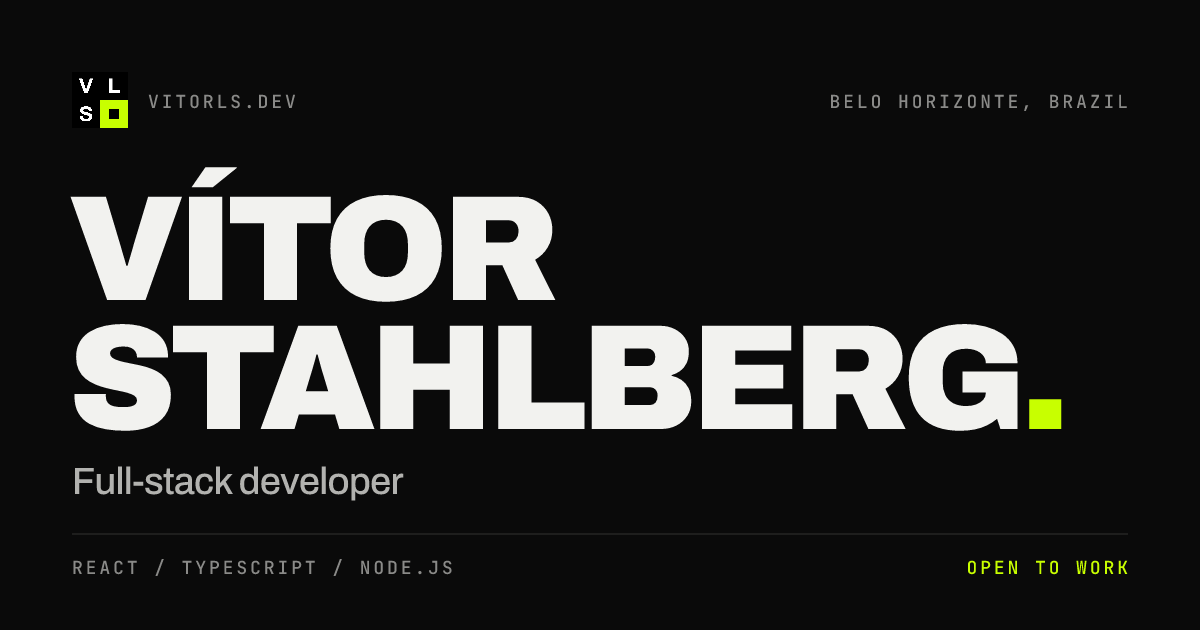
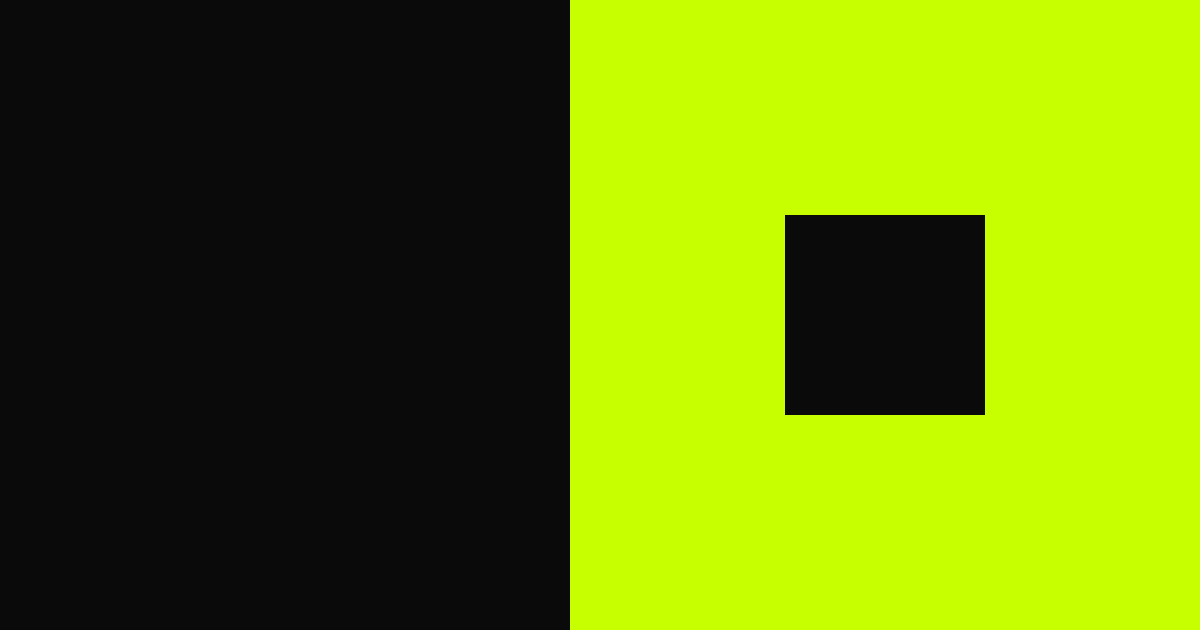
fix gyro

diff --git a/src/tilt.ts b/src/tilt.ts
@@ -1,16 +1,26 @@
 // The phone's own tilt, shared by every model the way the cursor is on desktop
-// (see RowObject). Nothing here touches three.js, so the permission prompt in
-// the hero can reach it without pulling in the 3D chunk.
+// (see RowObject). Nothing here touches three.js, so the button in the work
+// header can reach it without pulling in the 3D chunk.
 
 type Source = typeof DeviceOrientationEvent & {
-  /** iOS 13+ only, and only callable from a tap. */
-  requestPermission?: () => Promise<"granted" | "denied">;
+  /** Safari gates the sensor behind a tap; some others expose this too. */
+  requestPermission?: () => Promise<string>;
 };
 
 const source = window.DeviceOrientationEvent as Source | undefined;
 
 /** How far the models turn, as -1..1 on each axis. Stays 0 until the phone moves. */
 export const tilt = { x: 0, y: 0, live: false };
+
+/** What the sensor is doing, for the ?tilt-debug readout. */
+export const report = {
+  permission: "not asked",
+  orientation: 0,
+  absolute: 0,
+  motion: 0,
+  beta: 0,
+  gamma: 0,
+};
 
 // Degrees of tilt that reach the full turn.
 const RANGE = 30;
@@ -19,15 +29,17 @@ const RANGE = 30;
 // the reader is already holding it rather than snapping to some absolute pose.
 let base: { beta: number; gamma: number } | null = null;
 let listening = false;
+// Orientation is the better signal; gravity is only read until one arrives.
+let oriented = false;
 
 const clamp = (n: number) => Math.max(-1, Math.min(1, n));
 // beta wraps at ±180, where a large step is really a small move the other way.
 const wrap = (d: number) => (d > 180 ? d - 360 : d < -180 ? d + 360 : d);
 
-function read(event: DeviceOrientationEvent) {
-  const { beta, gamma } = event;
-  if (beta === null || gamma === null) return;
+function apply(beta: number, gamma: number) {
   if (!base) base = { beta, gamma };
+  report.beta = beta;
+  report.gamma = gamma;
 
   const pitch = wrap(beta - base.beta);
   const roll = wrap(gamma - base.gamma);
@@ -41,28 +53,60 @@ function read(event: DeviceOrientationEvent) {
   tilt.live = true;
 }
 
+function readOrientation(event: DeviceOrientationEvent) {
+  if (event.type === "deviceorientation") report.orientation++;
+  else report.absolute++;
+  const { beta, gamma } = event;
+  if (beta === null || gamma === null) return;
+  oriented = true;
+  apply(beta, gamma);
+}
+
+// For phones that report no orientation at all: gravity alone gives both angles
+// we use, and every accelerometer reports it.
+function readGravity(event: DeviceMotionEvent) {
+  report.motion++;
+  if (oriented) return;
+  const g = event.accelerationIncludingGravity;
+  if (!g || g.x === null || g.y === null || g.z === null) return;
+  // Gravity in the phone's own frame is world-up: its angles are beta and gamma.
+  const degrees = 180 / Math.PI;
+  apply(Math.atan2(g.y, g.z) * degrees, Math.atan2(-g.x, g.z) * degrees);
+}
+
 // Turning the phone moves beta and gamma bodily; the old rest angle is meaningless.
 const recalibrate = () => {
   base = null;
 };
 
+function attach() {
+  window.addEventListener("deviceorientation", readOrientation);
+  window.addEventListener("deviceorientationabsolute", readOrientation);
+  window.addEventListener("devicemotion", readGravity);
+  screen.orientation?.addEventListener("change", recalibrate);
+}
+
 /** True where the sensor is gated behind a prompt, so it needs a tap to ask. */
 export const tiltNeedsPermission = () =>
   typeof source?.requestPermission === "function";
 
-/** Starts tracking, asking first only where the platform requires it. */
+/**
+ * Starts tracking. The listeners go on first and stay on: they cost nothing
+ * while the sensor is quiet, so a browser that answers the permission call
+ * oddly — or not at all — still gets through once it decides to report.
+ */
 export async function startTilt() {
-  if (!source || listening) return false;
-  if (source.requestPermission) {
-    try {
-      if ((await source.requestPermission()) !== "granted") return false;
-    } catch {
-      // Not a tap, or the prompt was dismissed. Either way, no sensor.
-      return false;
-    }
-  }
+  if (listening) return;
   listening = true;
-  window.addEventListener("deviceorientation", read);
-  screen.orientation?.addEventListener("change", recalibrate);
-  return true;
+  attach();
+  if (!source?.requestPermission) return;
+  try {
+    // Fired without awaiting anything first, so it still counts as being
+    // inside the tap that asked for it.
+    report.permission = await source.requestPermission();
+  } catch (error) {
+    report.permission = `failed: ${error}`;
+  }
+  // Safari only starts delivering after the grant; re-adding is a no-op.
+  attach();
 }

diff --git a/src/components/TiltDebug.tsx b/src/components/TiltDebug.tsx
@@ -1,0 +1,38 @@
+import { useEffect, useState } from "react";
+import { report, tilt, tiltNeedsPermission } from "../tilt";
+
+// Temporary: add ?tilt-debug to the URL to see what the phone's sensors report.
+// Delete this file and its two lines in Work.tsx once the tilt is settled.
+export function TiltDebug() {
+  const [, render] = useState(0);
+
+  useEffect(() => {
+    const timer = setInterval(() => render((n) => n + 1), 250);
+    return () => clearInterval(timer);
+  }, []);
+
+  const round = (n: number) => n.toFixed(2);
+
+  return (
+    <pre
+      style={{
+        position: "fixed",
+        left: 8,
+        bottom: 8,
+        zIndex: 50,
+        margin: 0,
+        padding: "8px 10px",
+        background: "rgba(0,0,0,0.85)",
+        border: "1px solid #c8ff00",
+        color: "#c8ff00",
+        font: "10px/1.5 monospace",
+        pointerEvents: "none",
+      }}
+    >
+      {`gated: ${tiltNeedsPermission()}  perm: ${report.permission}
+events: orient ${report.orientation} / abs ${report.absolute} / motion ${report.motion}
+beta ${round(report.beta)}  gamma ${round(report.gamma)}
+tilt ${round(tilt.x)} , ${round(tilt.y)}  live ${tilt.live}`}
+    </pre>
+  );
+}

diff --git a/src/components/Work.tsx b/src/components/Work.tsx
@@ -3,6 +3,7 @@ import type { Lang, ModelStyle, Project, Screenshot } from "../content";
 import { copy, projects } from "../content";
 import { settings } from "../site.config";
 import { startTilt, tiltNeedsPermission } from "../tilt";
+import { TiltDebug } from "./TiltDebug";
 
 const RowObject = lazy(() => import("./RowObject"));
 
@@ -152,6 +153,7 @@ export function Work({ lang }: { lang: Lang }) {
 
   return (
     <section className="work">
+      {location.search.includes("tilt-debug") && <TiltDebug />}
       {roulette && (
         <div
           className={`marker${active?.live ? " is-visible" : ""}`}

diff --git a/vite.config.ts b/vite.config.ts
@@ -13,7 +13,7 @@ const escapeHtml = (text: string) => text.replace(/[&"<>]/g, (char) => entities[
 function sharePreview(): Plugin {
   const t = copy[settings.defaultLang]
   const siteUrl = identity.siteUrl.replace(/\/+$/, '')
-  const title = `${identity.name} — ${t.role}`
+  const title = `${identity.name}`
   const image = `${siteUrl}/og-image.png`
 
   const meta: [attr: 'name' | 'property', key: string, content: string][] = [
